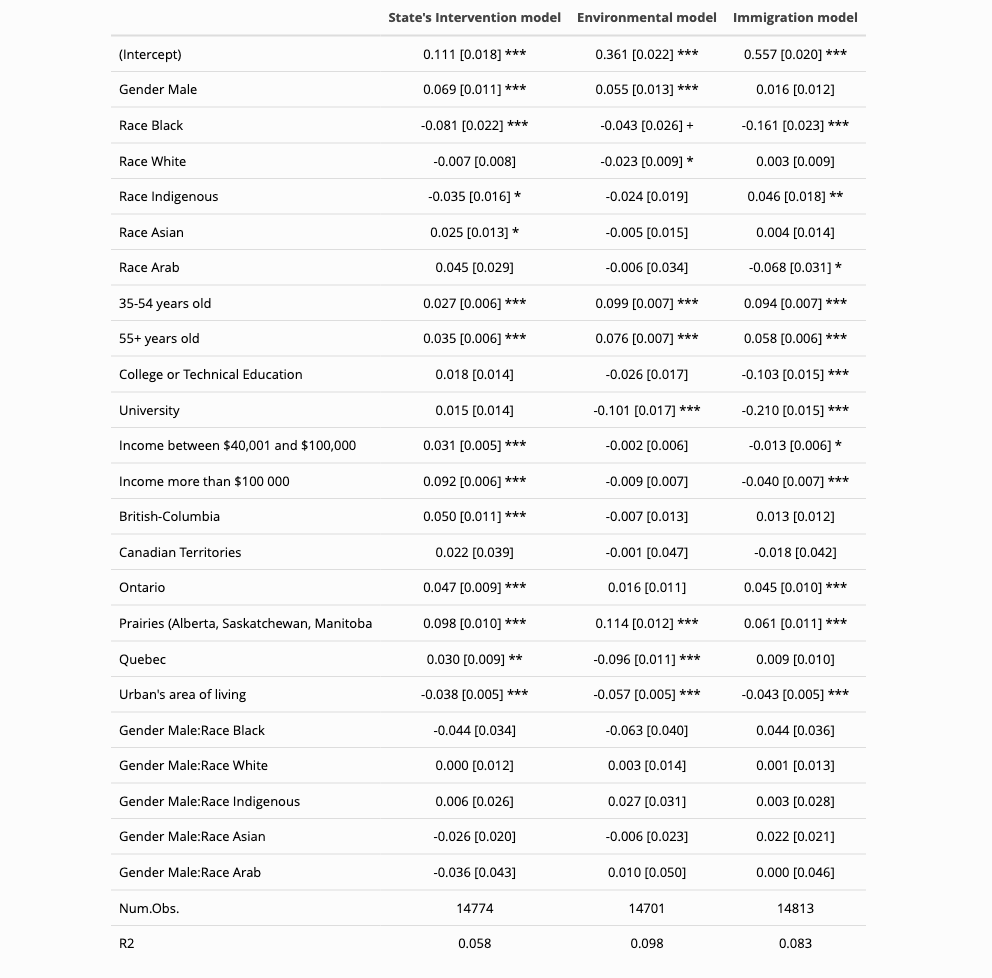
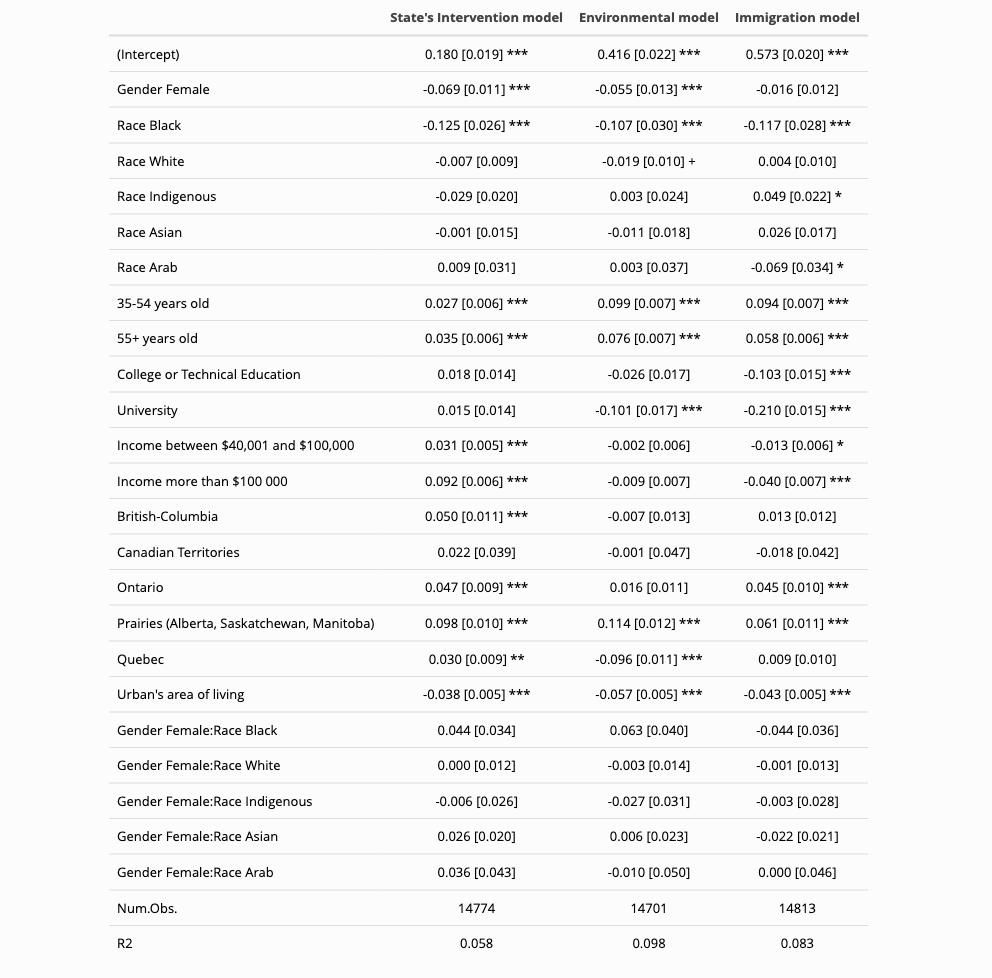
table finale

diff --git a/table.tex b/table.tex
@@ -2,64 +2,35 @@
 \centering
 \begin{tabular}[t]{lccc}
 \toprule
-  & model\_intervention & model\_enviro & model\_immigr\\
+  & State's Intervention model & Environmental model & Immigration model\\
 \midrule
-(Intercept) & \num{0.111} & \num{0.361} & \num{0.557}\\
- & (\num{0.018}) & (\num{0.022}) & (\num{0.020})\\
-gendermale & \num{0.069} & \num{0.055} & \num{0.016}\\
- & (\num{0.011}) & (\num{0.013}) & \vphantom{1} (\num{0.012})\\
-visMinBlack & \num{-0.081} & \num{-0.043} & \num{-0.161}\\
- & (\num{0.022}) & (\num{0.026}) & (\num{0.023})\\
-visMinWhite & \num{-0.007} & \num{-0.023} & \num{0.003}\\
- & (\num{0.008}) & (\num{0.009}) & (\num{0.009})\\
-visMinIndigenous & \num{-0.035} & \num{-0.024} & \num{0.046}\\
- & (\num{0.016}) & (\num{0.019}) & (\num{0.018})\\
-visMinAsian & \num{0.025} & \num{-0.005} & \num{0.004}\\
- & (\num{0.013}) & (\num{0.015}) & (\num{0.014})\\
-visMinArab & \num{0.045} & \num{-0.006} & \num{-0.068}\\
- & (\num{0.029}) & (\num{0.034}) & (\num{0.031})\\
-age35-54 years old & \num{0.027} & \num{0.099} & \num{0.094}\\
- & (\num{0.006}) & (\num{0.007}) & \vphantom{1} (\num{0.007})\\
-age55 years old or more & \num{0.035} & \num{0.076} & \num{0.058}\\
- & (\num{0.006}) & (\num{0.007}) & (\num{0.006})\\
-educationcollegial/technical & \num{0.018} & \num{-0.026} & \num{-0.103}\\
- & (\num{0.014}) & (\num{0.017}) & \vphantom{1} (\num{0.015})\\
-educationuniversity & \num{0.015} & \num{-0.101} & \num{-0.210}\\
- & (\num{0.014}) & (\num{0.017}) & (\num{0.015})\\
-incomebetween \$40,001 and \$100,000 & \num{0.031} & \num{-0.002} & \num{-0.013}\\
- & (\num{0.005}) & (\num{0.006}) & (\num{0.006})\\
-incomemore than \$100,000 & \num{0.092} & \num{-0.009} & \num{-0.040}\\
- & (\num{0.006}) & (\num{0.007}) & (\num{0.007})\\
-provinceBritish-Columbia & \num{0.050} & \num{-0.007} & \num{0.013}\\
- & (\num{0.011}) & (\num{0.013}) & (\num{0.012})\\
-provinceCanadian Territories & \num{0.022} & \num{-0.001} & \num{-0.018}\\
- & (\num{0.039}) & (\num{0.047}) & (\num{0.042})\\
-provinceOntario & \num{0.047} & \num{0.016} & \num{0.045}\\
- & (\num{0.009}) & (\num{0.011}) & \vphantom{1} (\num{0.010})\\
-provincePrairies (Alberta, Saskatchewan, Manitoba) & \num{0.098} & \num{0.114} & \num{0.061}\\
- & (\num{0.010}) & (\num{0.012}) & (\num{0.011})\\
-provinceQuébec & \num{0.030} & \num{-0.096} & \num{0.009}\\
- & (\num{0.009}) & (\num{0.011}) & (\num{0.010})\\
-ruralityurban & \num{-0.038} & \num{-0.057} & \num{-0.043}\\
- & (\num{0.005}) & (\num{0.005}) & (\num{0.005})\\
-gendermale × visMinBlack & \num{-0.044} & \num{-0.063} & \num{0.044}\\
- & (\num{0.034}) & (\num{0.040}) & (\num{0.036})\\
-gendermale × visMinWhite & \num{0.000} & \num{0.003} & \num{0.001}\\
- & (\num{0.012}) & (\num{0.014}) & (\num{0.013})\\
-gendermale × visMinIndigenous & \num{0.006} & \num{0.027} & \num{0.003}\\
- & (\num{0.026}) & (\num{0.031}) & (\num{0.028})\\
-gendermale × visMinAsian & \num{-0.026} & \num{-0.006} & \num{0.022}\\
- & (\num{0.020}) & (\num{0.023}) & (\num{0.021})\\
-gendermale × visMinArab & \num{-0.036} & \num{0.010} & \num{0.000}\\
- & (\num{0.043}) & (\num{0.050}) & (\num{0.046})\\
+(Intercept) & \num{0.180} [\num{0.019}] *** & \num{0.416} [\num{0.022}] *** & \num{0.573} [\num{0.020}] ***\\
+Gender Female & \num{-0.069} [\num{0.011}] *** & \num{-0.055} [\num{0.013}] *** & \num{-0.016} [\num{0.012}]\\
+Race Black & \num{-0.125} [\num{0.026}] *** & \num{-0.107} [\num{0.030}] *** & \num{-0.117} [\num{0.028}] ***\\
+Race White & \num{-0.007} [\num{0.009}] & \num{-0.019} [\num{0.010}] + & \num{0.004} [\num{0.010}]\\
+Race Indigenous & \num{-0.029} [\num{0.020}] & \num{0.003} [\num{0.024}] & \num{0.049} [\num{0.022}] *\\
+Race Asian & \num{-0.001} [\num{0.015}] & \num{-0.011} [\num{0.018}] & \num{0.026} [\num{0.017}]\\
+Race Arab & \num{0.009} [\num{0.031}] & \num{0.003} [\num{0.037}] & \num{-0.069} [\num{0.034}] *\\
+35-54 years old & \num{0.027} [\num{0.006}] *** & \num{0.099} [\num{0.007}] *** & \num{0.094} [\num{0.007}] ***\\
+55+ years old & \num{0.035} [\num{0.006}] *** & \num{0.076} [\num{0.007}] *** & \num{0.058} [\num{0.006}] ***\\
+College or Technical Education & \num{0.018} [\num{0.014}] & \num{-0.026} [\num{0.017}] & \num{-0.103} [\num{0.015}] ***\\
+University & \num{0.015} [\num{0.014}] & \num{-0.101} [\num{0.017}] *** & \num{-0.210} [\num{0.015}] ***\\
+Income between \$40,001 and \$100,000 & \num{0.031} [\num{0.005}] *** & \num{-0.002} [\num{0.006}] & \num{-0.013} [\num{0.006}] *\\
+Income more than \$100 000 & \num{0.092} [\num{0.006}] *** & \num{-0.009} [\num{0.007}] & \num{-0.040} [\num{0.007}] ***\\
+British-Columbia & \num{0.050} [\num{0.011}] *** & \num{-0.007} [\num{0.013}] & \num{0.013} [\num{0.012}]\\
+Canadian Territories & \num{0.022} [\num{0.039}] & \num{-0.001} [\num{0.047}] & \num{-0.018} [\num{0.042}]\\
+Ontario & \num{0.047} [\num{0.009}] *** & \num{0.016} [\num{0.011}] & \num{0.045} [\num{0.010}] ***\\
+Prairies (Alberta, Saskatchewan, Manitoba) & \num{0.098} [\num{0.010}] *** & \num{0.114} [\num{0.012}] *** & \num{0.061} [\num{0.011}] ***\\
+Quebec & \num{0.030} [\num{0.009}] ** & \num{-0.096} [\num{0.011}] *** & \num{0.009} [\num{0.010}]\\
+Urban's area of living & \num{-0.038} [\num{0.005}] *** & \num{-0.057} [\num{0.005}] *** & \num{-0.043} [\num{0.005}] ***\\
+Gender Female:Race Black & \num{0.044} [\num{0.034}] & \num{0.063} [\num{0.040}] & \num{-0.044} [\num{0.036}]\\
+Gender Female:Race White & \num{0.000} [\num{0.012}] & \num{-0.003} [\num{0.014}] & \num{-0.001} [\num{0.013}]\\
+Gender Female:Race Indigenous & \num{-0.006} [\num{0.026}] & \num{-0.027} [\num{0.031}] & \num{-0.003} [\num{0.028}]\\
+Gender Female:Race Asian & \num{0.026} [\num{0.020}] & \num{0.006} [\num{0.023}] & \num{-0.022} [\num{0.021}]\\
+Gender Female:Race Arab & \num{0.036} [\num{0.043}] & \num{-0.010} [\num{0.050}] & \num{0.000} [\num{0.046}]\\
 \midrule
 Num.Obs. & \num{14774} & \num{14701} & \num{14813}\\
 R2 & \num{0.058} & \num{0.098} & \num{0.083}\\
-R2 Adj. & \num{0.056} & \num{0.097} & \num{0.082}\\
-AIC & \num{1172.2} & \num{5759.4} & \num{3385.9}\\
-BIC & \num{1362.2} & \num{5949.2} & \num{3576.0}\\
-Log.Lik. & \num{-561.086} & \num{-2854.676} & \num{-1667.970}\\
-RMSE & \num{0.25} & \num{0.29} & \num{0.27}\\
 \bottomrule
 \end{tabular}
 \end{table}
